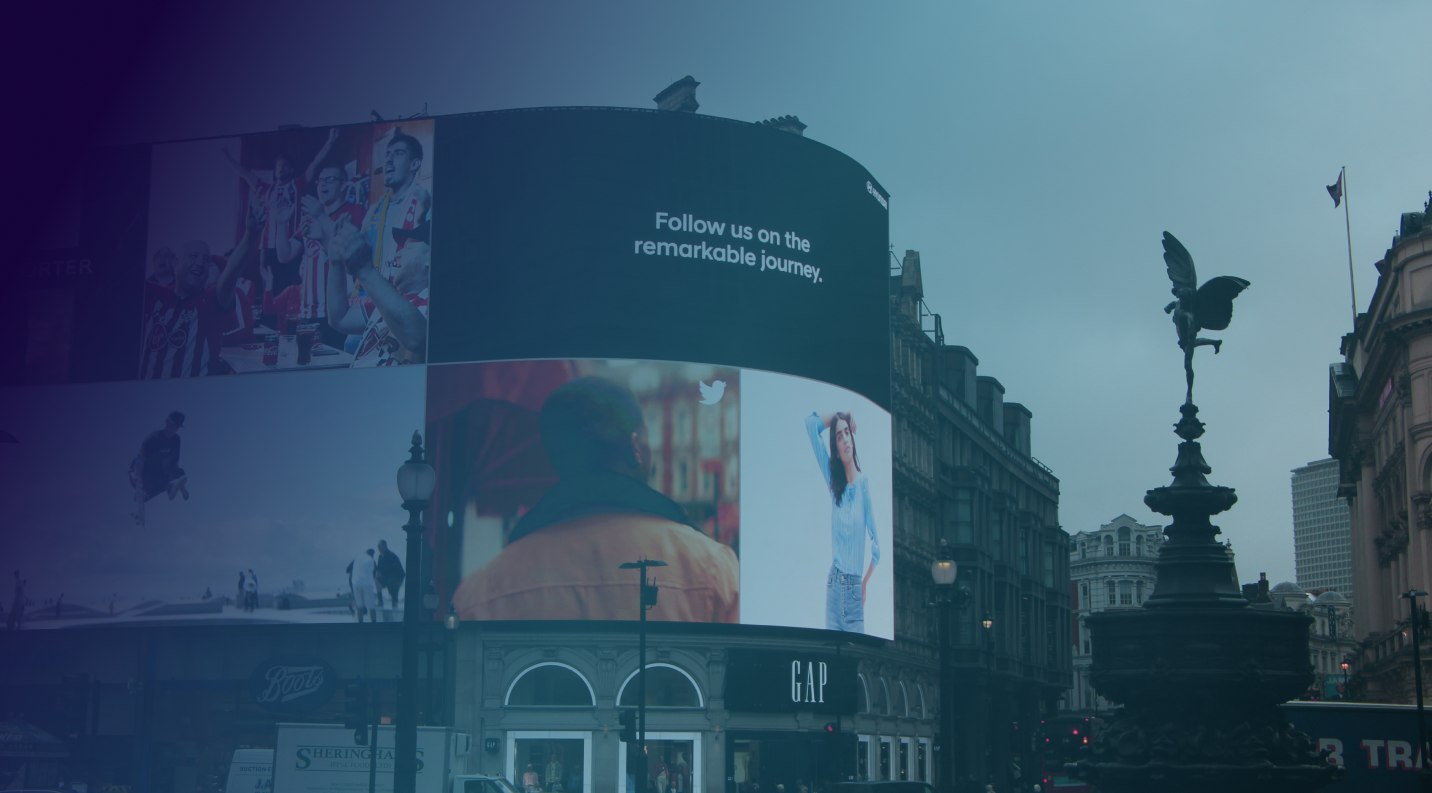
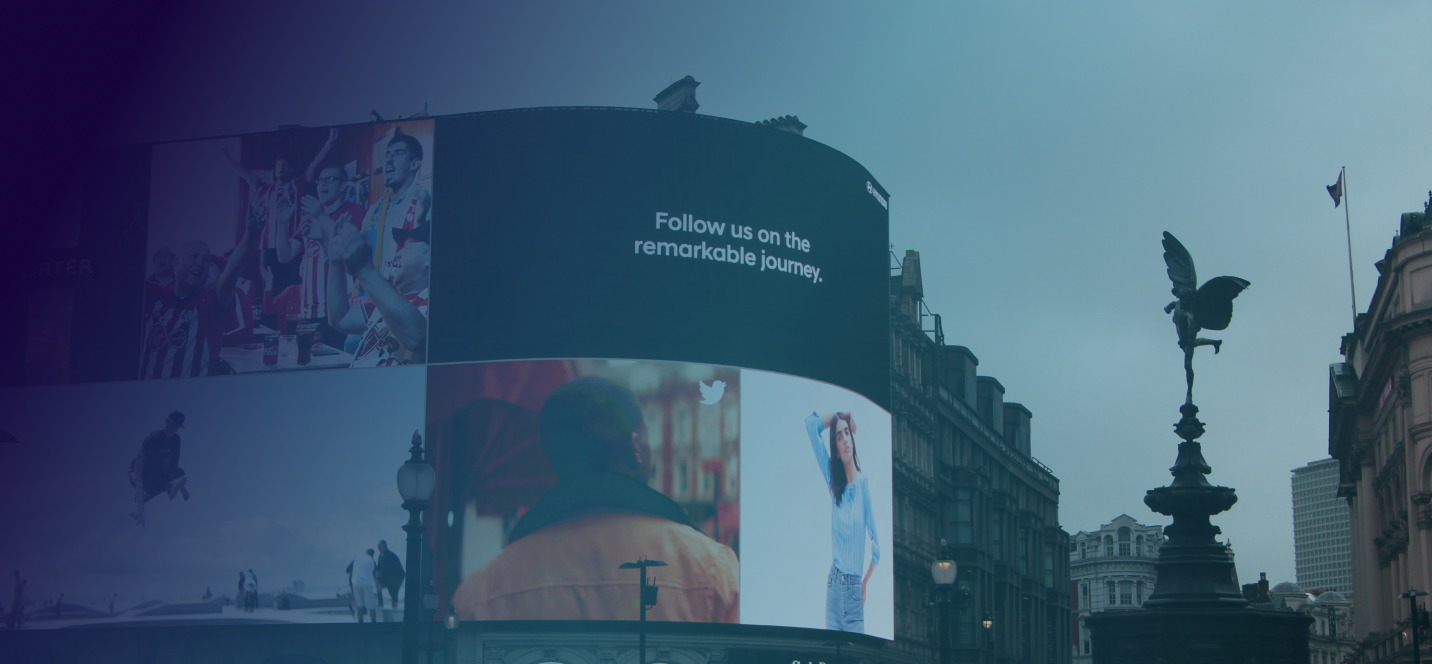
Second

Changed region(s): [[0.0307, 0.0904, 1.0, 1.0], [0.4302, 0.2711, 0.5838, 0.4217], [0.0922, 0.6325, 0.1536, 0.753]]

diff --git a/src/App.js b/src/App.js
@@ -1,23 +1,12 @@
-import logo from './logo.svg';
+import Home from '../src/pages/home/Home.js';
+import Footer from '../src/pages/footer/Footer.js';
 import './App.css';
 
 function App() {
   return (
     <div className="App">
-      <header className="App-header">
-        <img src={logo} className="App-logo" alt="logo" />
-        <p>
-          Edit <code>src/App.js</code> and save to reload.
-        </p>
-        <a
-          className="App-link"
-          href="https://reactjs.org"
-          target="_blank"
-          rel="noopener noreferrer"
-        >
-          Learn React
-        </a>
-      </header>
+      <Home />
+      <Footer />
     </div>
   );
 }

diff --git a/src/pages/home/home.css b/src/pages/home/home.css
@@ -14,7 +14,7 @@
     background-image: url('../../assets/bg.png');
     background-size: cover;
     background-repeat: no-repeat;
-    background-position: center center;
+    
 }
 .aa__home-top
 {
